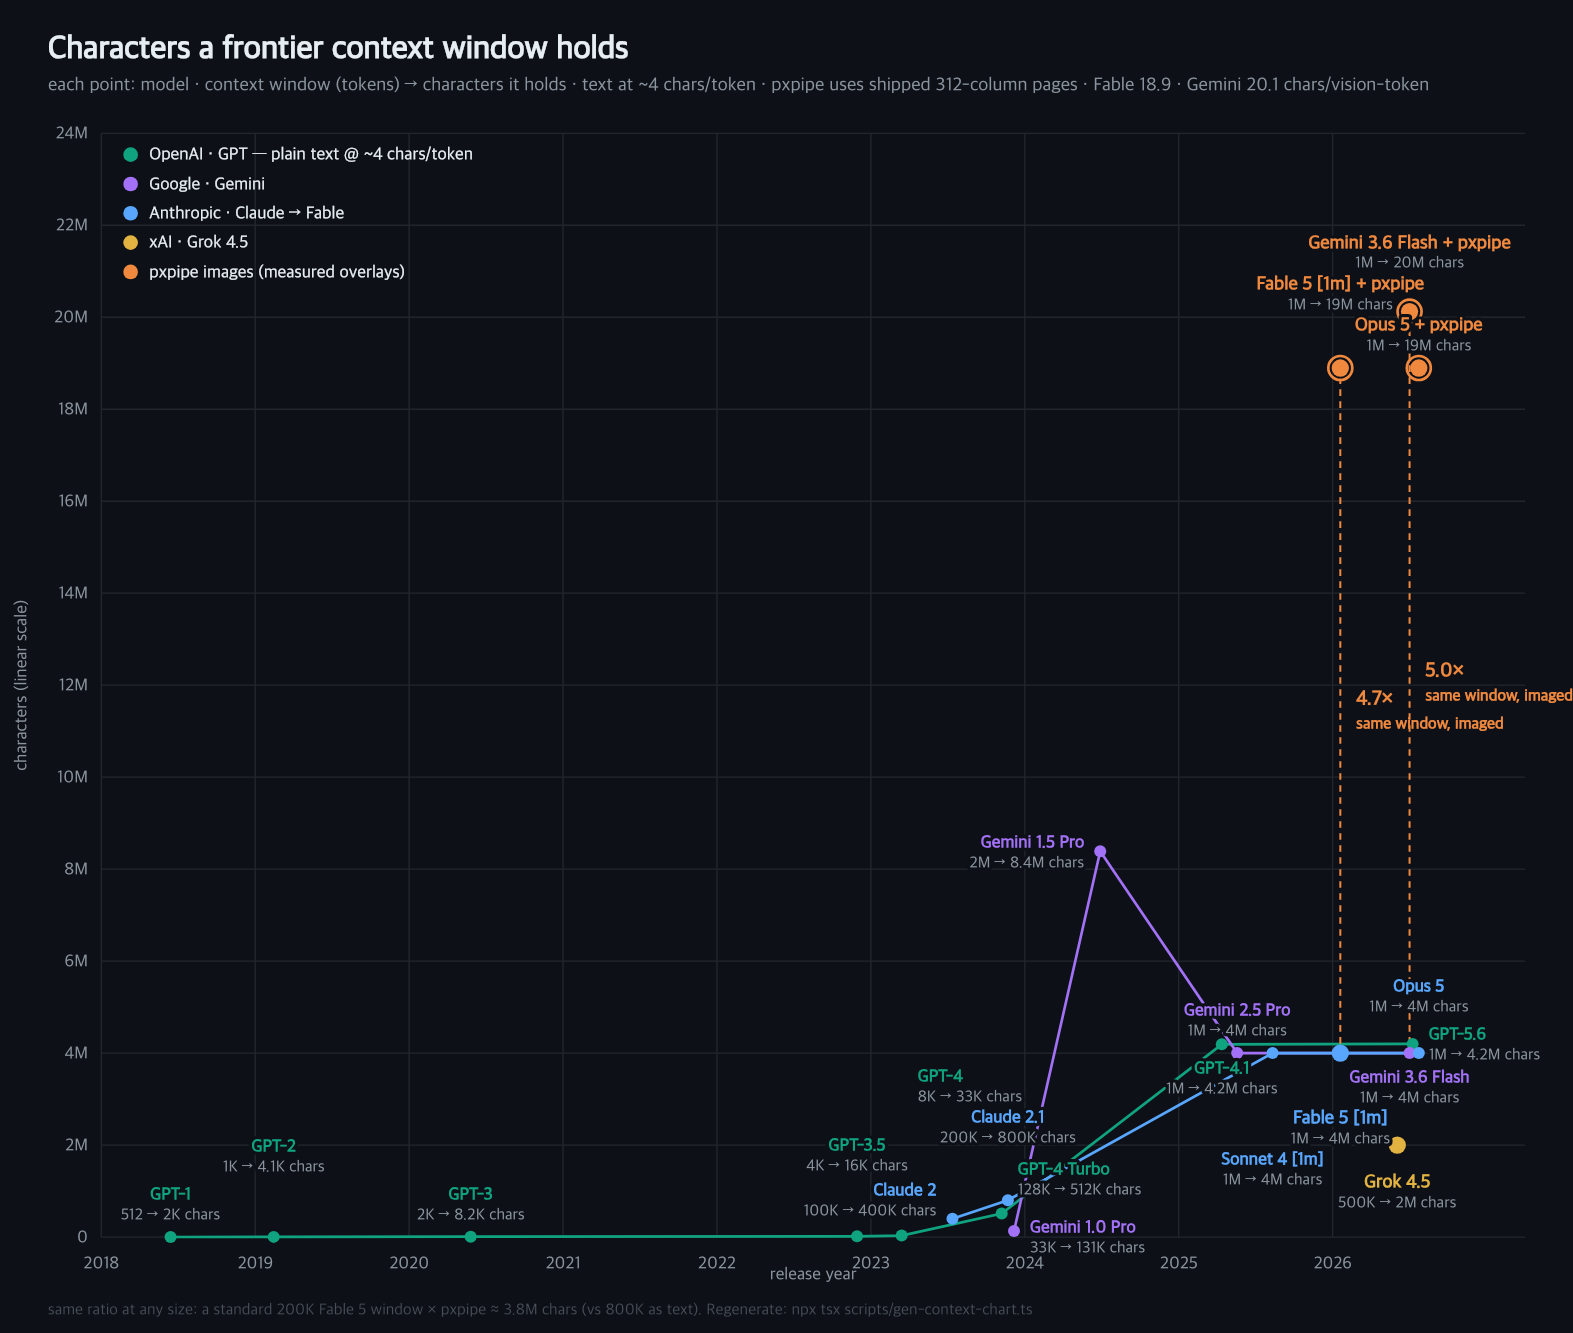
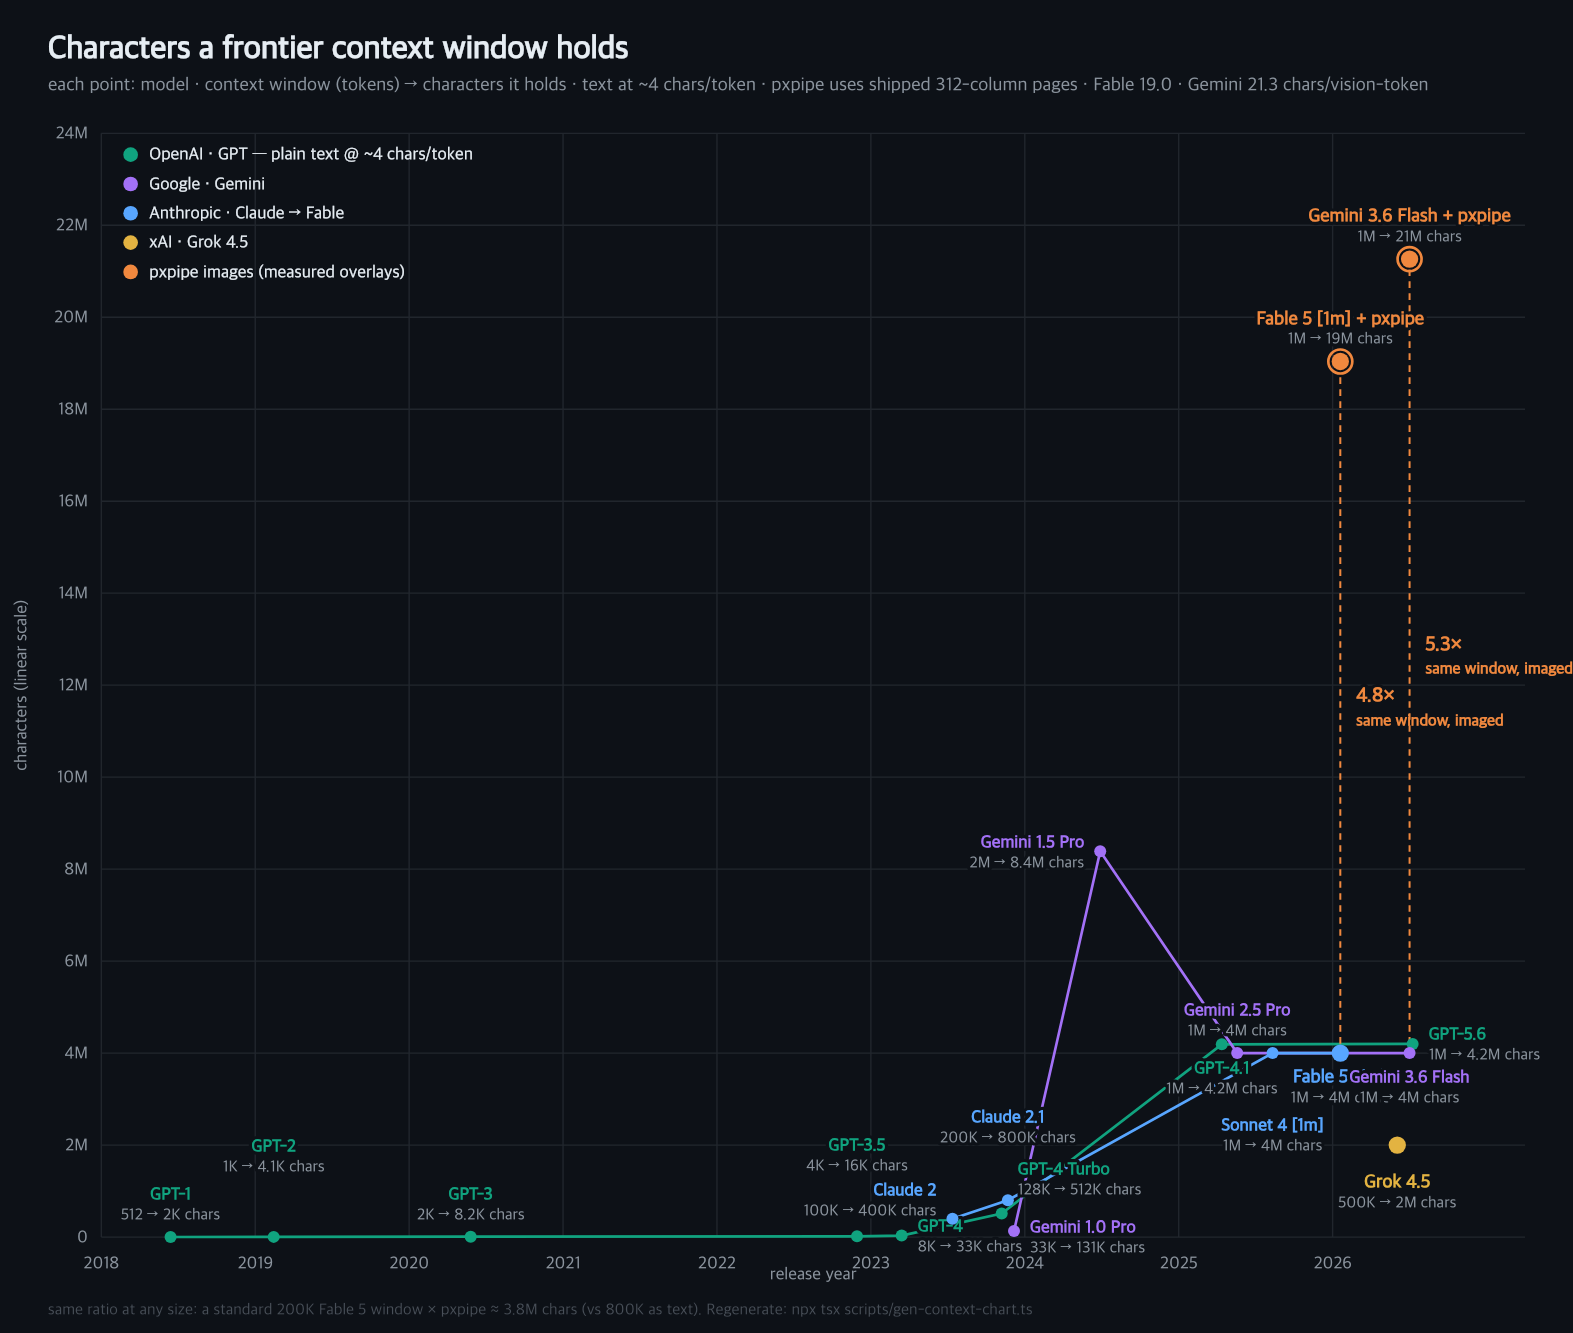
Remove claude-opus-5 from pxpipe default model list

diff --git a/tests/public-api.test.ts b/tests/public-api.test.ts
@@ -29,7 +29,7 @@ afterEach(() => {
 });
 
 describe('public library API', () => {
-  it('recognizes the default scope (Fable 5 + Opus 5 + Gemini 3.6 Flash); legacy Opus is OFF by default', () => {
+  it('recognizes the default scope (Fable 5 + Gemini 3.6 Flash); Opus is OFF by default', () => {
     expect(isPxpipeSupportedModel('claude-fable-5')).toBe(true);
     expect(isPxpipeSupportedModel('claude-fable-5-high')).toBe(true);
     expect(isPxpipeSupportedModel('google/gemini-3.6-flash')).toBe(true);
@@ -39,10 +39,10 @@ describe('public library API', () => {
     // vendor segments pick an upstream, not a geometry, so they do not gate
     // scope — an unrecognized prefix in front of a known id still matches.
     expect(isPxpipeSupportedModel('untrusted/google/gemini-3.6-flash')).toBe(true);
-    // Opus 5 IS in the default scope (applicability.ts :: DEFAULT_MODEL_BASES), so it
-    // ships compressed with no opt-in. Its dense-hex score is still unmeasured
-    // (README "—") — the same axis that excluded Opus 4.8 at 0/15.
-    expect(isPxpipeSupportedModel('claude-opus-5')).toBe(true);
+    // Opus 5 is OPT-IN, not in the default scope: it reads imaged context at
+    // 2/15 exact recall vs Fable's 13/15, so compressing it by default hands
+    // the operator's main driver a silent-misread failure mode.
+    expect(isPxpipeSupportedModel('claude-opus-5')).toBe(false);
     // Opus 4.8 is OPT-IN, not in the default scope — same pipeline/render as
     // Fable, but it reads imaged content at a tax (FINDINGS.md 2026-06-16), so
     // the default doesn't silently compress the operator's main driver. Enable
@@ -60,7 +60,7 @@ describe('public library API', () => {
   it('strips bracketed variant tags like [1m] before matching', () => {
     expect(isPxpipeSupportedModel('claude-fable-5[1m]')).toBe(true);
     expect(isPxpipeSupportedModel('claude-fable-5-high[1m]')).toBe(true);
-    expect(isPxpipeSupportedModel('claude-opus-5[1m]')).toBe(true);    // in default scope, tag stripped
+    expect(isPxpipeSupportedModel('claude-opus-5[1m]')).toBe(false);   // Opus 5 opt-in, off by default
     expect(isPxpipeSupportedModel('claude-opus-4-8[1m]')).toBe(false); // legacy Opus opt-in, off by default
     // a non-scoped base is still rejected even with a variant tag
     expect(isPxpipeSupportedModel('claude-opus-4-7[1m]')).toBe(false);
@@ -92,7 +92,7 @@ describe('public library API', () => {
       // empty list = compress nothing
       setAllowedModelBases([]);
       expect(isPxpipeSupportedModel('claude-fable-5')).toBe(false);
-      // null clears the override → back to the default scope (Fable 5 + Opus 5 + Gemini)
+      // null clears the override → back to the default scope (Fable 5 + Gemini)
       setAllowedModelBases(null);
       expect(isPxpipeSupportedModel('claude-fable-5')).toBe(true);
       expect(isPxpipeSupportedGptModel('gpt-5.6-sol')).toBe(false);
@@ -133,7 +133,7 @@ describe('public library API', () => {
       expect(isPxpipeSupportedGptModel('grok-4')).toBe(false);
       expect(isPxpipeSupportedGptModel('grok-4.20')).toBe(false);
       expect(getAllowedModelBases()).not.toContain('grok-4.5');
-      expect(getAllowedModelBases()).toEqual(['claude-fable-5', 'claude-opus-5', 'gemini-3.6-flash']);
+      expect(getAllowedModelBases()).toEqual(['claude-fable-5', 'gemini-3.6-flash']);
 
       process.env.PXPIPE_MODELS = 'claude-fable-5,gpt-5.6-sol,grok-4.5';
       expect(isPxpipeSupportedGptModel('grok-4.5')).toBe(true);

diff --git a/tests/dashboard-api.test.ts b/tests/dashboard-api.test.ts
@@ -188,7 +188,7 @@ describe('serveFragment', () => {
       expect(off).not.toContain('<div class="models" style="display:none">');
       // PXPIPE_MODELS textbox mirrors the live scope as CSV.
       expect(off).toContain('name="list"');
-      expect(off).toContain('value="claude-fable-5,claude-opus-5,gemini-3.6-flash"');
+      expect(off).toContain('value="claude-fable-5,gemini-3.6-flash"');
       expect(off).toContain('GPT 5.6 Sol</button>');
       expect(off).toContain('GPT 5.5</button>');
       // Sol remains available and ordered before GPT 5.5.
@@ -206,7 +206,7 @@ describe('serveFragment', () => {
       expect(getAllowedModelBases()).toContain('gpt-5.5');
       expect(getAllowedModelBases()).toContain('gpt-5.6-sol');
       // Chip flips are reflected back into the textbox CSV.
-      expect(onBoth).toContain('value="claude-fable-5,claude-opus-5,gemini-3.6-flash,gpt-5.6-sol,gpt-5.5"');
+      expect(onBoth).toContain('value="claude-fable-5,gemini-3.6-flash,gpt-5.6-sol,gpt-5.5"');
     } finally {
       setAllowedModelBases(null);
       if (prev === undefined) delete process.env.PXPIPE_MODELS;
@@ -246,7 +246,7 @@ describe('serveFragment', () => {
       });
 
       persisting.handleModelsToggle('gpt-5.6-sol', true);
-      expect(saved.at(-1)).toEqual(['claude-fable-5', 'claude-opus-5', 'gemini-3.6-flash', 'gpt-5.6-sol']);
+      expect(saved.at(-1)).toEqual(['claude-fable-5', 'gemini-3.6-flash', 'gpt-5.6-sol']);
       persisting.handleModelsSet('claude-fable-5');
       expect(saved.at(-1)).toEqual(['claude-fable-5']);
       // Empty scope persists too (round-trips as 'off' on load).

diff --git a/src/core/applicability.ts b/src/core/applicability.ts
@@ -34,9 +34,11 @@ let runtimeModelBases: readonly string[] | null = null;
  *  - GPT 5.6 Sol — 98/100 production arithmetic, but 79/93 completed gist,
  *    4/15 completed guard confabulations, and 0/15 dense hex.
  *  - Grok 4.5 — native 14px: 100/100 arithmetic, 97/98 gist, 17/18 state; hex 0/15.
- *  Both profiles remain available for explicit opt-in.
+ *  - Opus 5 — 2/15 exact recall on imaged context (DeepSWE v1.1 eval);
+ *    task pass rate holds but dense recall does not.
+ *  All remain available for explicit opt-in.
  *  Silently imaging weak or unvalidated readers is the wrong default. */
-const DEFAULT_MODEL_BASES = ['claude-fable-5', 'claude-opus-5', 'gemini-3.6-flash'];
+const DEFAULT_MODEL_BASES = ['claude-fable-5', 'gemini-3.6-flash'];
 
 function falsey(v: string): boolean {
   return /^(0|false|no|off|none)$/i.test(v.trim());
@@ -44,7 +46,7 @@ function falsey(v: string): boolean {
 
 /** PXPIPE_MODELS env / built-in default, ignoring the runtime override. One CSV
  *  controls every family (Claude + GPT). Resolution (read per-call so scope flips LIVE):
- *  - unset or empty        → built-in default (Fable 5 only)
+ *  - unset or empty        → built-in default (Fable 5 + Gemini 3.6 Flash)
  *  - `off`/`0`/`false`/... → compress nothing
  *  - CSV of model bases    → exactly those families (e.g. `claude-fable-5,gpt-5.6-sol`) */
 function envOrDefaultBases(): string[] {
